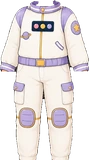
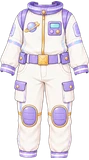
여아 우주복 새 원화로 교체 (#774)
원화의 턱선과 목둘레 안 목 살을 지우고, 목 중심·턱 자리를 여아 아바타에 맞춰 배율 0.70으로 얹었다. imgGirl ?v=2.

Claude-Session: https://claude.ai/code/session_018maNuYqDfFyRSe9uKpZhPR

diff --git a/src/data/avatarEquipment.js b/src/data/avatarEquipment.js
@@ -342,7 +342,10 @@ export const AVATAR_CATALOG = [
      비치룩·보드룩과 같은 방식: 원화 목 중심(x227.43)을 x516 에, 턱선 y14 를 y399 에 고정하고 어깨·속옷이 다 가려지는
      가장 작은 배율 0.71. 턱은 지우고, 목 살(크림 깃과 R−B 로 구분)만 페이드로 베이스 목과 섞었다. 탑재 상자 (355,391)-(671,782). */
   { id: "top_acorn",      slot: "top",   label: "도토리 탐험복", emoji: "🌰", price:DECOR_PRICE.rare, rarity: "rare", theme: "adventure", forGender: "boy", coversBottom: true, img: "assets/avatar/top/acorn-outfit-boy.webp?v=4", thumb: "assets/avatar/thumb/top_acorn.webp?v=4" },
-  { id: "top_space",      slot: "top",   label: "우주복",       emoji: "🚀", price:DECOR_PRICE.epic, rarity: "epic", theme: "space",  coversBottom: true, img: "assets/avatar/top/space-suit-boy.webp?v=3", imgGirl: "assets/avatar/top/space-suit-girl.webp", thumb: "assets/avatar/thumb/top_space.webp?v=3", thumbGirl: "assets/avatar/thumb/top_space-girl.webp" },
+  /* [2026-10-02] 여아 우주복 새 원화로 교체 — 흰 우주복(보라 목둘레·어깨·무릎 패드, 금 버클), 발목까지 오는 한 벌(사용자 원화).
+     원화 맨 위의 턱선과 목둘레 안쪽 목 살을 지워 베이스 목이 그대로 보이게 하고, 목둘레 안 목 중심(x214)을 여아 목 중심 x512.5 에,
+     원화 턱 자리 y2 를 여아 턱선 y361 에 맞췄다. 배율 0.70 — 흰 수영복·다리가 다 가려지고 발목·손목에서 끝난다. imgGirl ?v=2. */
+  { id: "top_space",      slot: "top",   label: "우주복",       emoji: "🚀", price:DECOR_PRICE.epic, rarity: "epic", theme: "space",  coversBottom: true, img: "assets/avatar/top/space-suit-boy.webp?v=3", imgGirl: "assets/avatar/top/space-suit-girl.webp?v=2", thumb: "assets/avatar/thumb/top_space.webp?v=3", thumbGirl: "assets/avatar/thumb/top_space-girl.webp?v=2" },
 
   /* ── 우주 세트 (남아) — 사용자 원화 2026-09-29 ────────────────────────────
      우주복(top_space)과 같은 원화 세트에서 나온 가방·신발. 둘 다 남아 전용 첫

diff --git a/art-src/README.md b/art-src/README.md
@@ -372,7 +372,7 @@ getBoundingClientRect로 재서 정한다. 2026-08-05 점검에서 이 기준을
 | (돌고래·돛단배 되돌림 2026-09-27) | 바로 위 8종 작업에서 **두 곳을 잘못 지웠다.** ① 돌고래 — '몸과 물 사이'를 지우면서 **눈 아래 흰 턱(300px, (119,130)-(174,142))까지 같이 날렸다.** 상자를 물결선 아래(y≥146)로만 좁혀 다시 지우니 물결선 띠(1029px)와 꼬리쪽 물방울 옆(227px)만 사라지고 턱은 남는다. ② 돛단배 — '돛대와 천 사이'라고 본 흰색은 **배경이 아니라 앞돛(jib)** 이었다. 아이 뒤에 흰 앞돛이 통째로 그려져 있고 큰 돛도 돛대에 바로 붙어 있어 **둘 사이에 지울 배경 자체가 없다.** (225,14) 기준으로 지운 6덩어리가 전부 돛 안쪽을 파먹어, 남녀 두 장 다 손대기 전으로 되돌렸다. **교훈: 흰 물건 옆의 '틈'은 지우기 전에 5배로 확대해 배경인지 물건인지 눈으로 확인할 것** — 마젠타 위에서도 흰 물건과 흰 배경은 똑같이 보인다 | assets/expedition/ride/dolphin{,-girl}.webp · sailboat{,-girl}.webp |
 | growth-characters-760/adventure/{boy,girl}/stage-1~5.webp | **탐험 성장 캐릭터 5단계 남·여 (사용자 원화 2026-09-26 — 전면 교체)** — 받은 그림 10장이 전부 배경이 지워진 상태였고 **알파 1~19 짜리 헤일로**가 있었다(남아2 11,051px · 여아1 11,953px). **안 누르면 알파 상자가 그쪽까지 늘어나 캐릭터가 작게 들어간다** — 남아2 는 상자가 684 → 1042 로 벌어졌다. 눌러서 다시 잰 뒤 아바타 장비와 같은 규칙(연결 조각 60px 미만 제거 + 250px 이하 안쪽 구멍 메움)을 돌렸다. 겨드랑이·다리 사이처럼 **큰 빈 곳은 진짜 여백이라 그대로 둔다** — 옷과 달리 캐릭터는 구멍이 있는 게 정상이다. 보관 760 높이 · 배포 500 높이(알파 상자에 맞춰 자르고 세로만 맞춘다, 가로는 비율). **진화할수록 물건이 하나씩 는다** — 1 기본(사파리 헬멧·노란 조끼·초록 반바지·부츠) → 2 +고글 → 3 +허리 파우치 → 4 +빨간 스카프 → 5 +별 뱃지. 포즈도 단계마다 다르다(차렷 → 경례 → 가리키기 → 허리에 손 → 주먹). 예전 판(지도·돋보기·망토·지팡이가 늘어나던 세트)은 규칙 6 에 따라 같은 파일명으로 덮어썼다. CHAR_IMG 의 `?v=` 를 5 → 6 으로 올렸다 | assets/growth-characters/adventure/{boy,girl}/stage-1~5.webp |
 | (여아 전수 점검 2026-09-25) | 사용자 요청으로 **여아가 볼 수 있는 옷·모자 10종을 전부** 훑었다(입은 모습 + 상점 카드 + 자홍 배경 + 수치). 눈에 띄는 흠은 없었지만 수치로 **부스러기와 1픽셀급 구멍**이 남아 있어, 아바타 장비 전 파일에 같은 규칙을 한 번에 돌렸다 — **연결 조각 60px 미만 제거 + 테두리에 안 닿는 250px 이하 구멍을 이웃 색으로 메움**. 17개 파일이 손질됐다(해적 모자 부스러기 40·구멍 191 / 해적 옷 여아 구멍 73 / 별빛 마법사 부스러기 41 / 사파리 여아 부스러기 5·구멍 48 / 딸기 소풍 부스러기 7·구멍 22 …). 가장자리가 반투명이라 첫 판에 안 채워진 3개는 이웃 기준을 알파 60 으로 낮춰 마무리했다. **결과: 상점에 있는 17개 파일 전부 조각 1개·부스러기 0·구멍 0.** 손질로 그림이 바뀐 8종은 썸네일을 다시 뽑고 `?v=` 를 올렸다. 은퇴 파일(비행모·꽃헬멧·탐험헬멧·크림부츠·탐험끈·데님/카키 반바지) 8개도 같은 규칙에 함께 손질됐다 — 상점엔 없지만 배포본에는 들어가므로 그대로 뒀다 | (전 파일) |
-| space-girl-src.webp | **[2026-09-25 탑재본 청소]** 색으로 옷을 떼어낸 흔적(손·목·발 살 조각, 깃 안쪽 목)이 층에 남아 있었다. 입은 모습에선 베이스의 같은 자리와 겹쳐 안 보였지만 **상점 카드에선 옷에 손이 매달린 것처럼 보였다.** 소매부리 y583 아래 바깥 덩어리·바지밑단 y868 아래·깃 안쪽 y346~374 의 살과 머리카락을 지우고(3,812px + 부스러기 9조각 22px) 썸네일을 다시 뽑았다. 남아 것도 깃 안쪽 목(y400~428, 1,608px)을 같은 이유로 지웠다. 깃 안은 베이스의 제 목이 채우므로 구멍이 생기지 않는다(실측 확인). **우주복 원화 여아 (사용자 원화 2026-08-19)** — 베이스 v7 여아가 **입고 있는 전신 그림**(897×1753, 배경 검정). 크림색 우주복 + 연보라 어깨·벨트·무릎보호대 + 금색 지퍼·별 패치. 팔다리까지 덮는 한 벌 | avatar/top/space-suit-girl.webp |
+| space-girl-src.webp | **우주복 원화 여아 — 새 판 (사용자 원화 2026-10-02, 이전 판 교체)**. 424×750 투명 배경, 흰 우주복(보라 목둘레·어깨·소매·무릎 패드, 금 지퍼·버클) 발목까지 한 벌. 맨 위에 베이스 턱선, 목둘레 안에 목 살이 그려져 있다 → 원화 y0~5 의 보라가 아닌 픽셀과 목둘레 안쪽(y0~17, x175~257)의 보라가 아닌 픽셀을 모두 지워 베이스 목이 비치게 했다. 목둘레 안 목 중심 x214 를 여아 목 중심 x512.5 에, 원화 턱 자리 y2 를 여아 턱선 y361 에 맞추고 배율 0.70 — 흰 수영복 0·종아리까지 다 가려지고 바지 끝이 발목, 소매 끝이 손목. 조각 1개. 탑재 상자 (363,360,660,885) · imgGirl ?v=2 | avatar/top/space-suit-girl.webp · thumb/top_space-girl.webp |
 | picnic-girl-src.webp | **딸기 소풍 옷 원화 여아 (사용자 원화 2026-08-19)** — 베이스 v7 여아가 **입고 있는 전신 그림**(859×1832, 배경 검정). 분홍 깅엄 카디건 + 크림 블라우스 + 딸기 자수 산호색 반바지 | avatar/top/picnic-outfit-girl.webp |
 | magic-girl-src.webp | **별빛 마법사 옷 원화 여아 — 새 판 (사용자 원화 2026-10-02, 이전 판 교체)**. 512×553 투명 배경, 보라 후드 망토(금 테두리·별 브로치) + 연보라 원피스·초승달 허리띠·별 무늬 보라 치마, 소매 끝에 치마를 잡은 손까지 그려져 있다. 맨 위(원화 y0~16)에 베이스 턱 아래 곡선이 함께 그려져 있어 보라·금색이 아닌 픽셀을 지웠다. 후드 사이 목 중심 x255.5 를 여아 목 중심 x512.5 에, 원화 턱선 y14 를 여아 턱선 y361 에 맞추고 배율 0.62 — 원화 손이 아바타 손 자리(x357~417·y560~658)를 덮고 그 아래는 치마가 가려 손이 두 쌍으로 안 보인다(손을 지우면 손목이 잘려 보여 살렸다). 목 살은 턱선 아래 20px 동안 0→1 페이드. 흰 수영복 비침 0, 조각 1개. 탑재 상자 (354,353,671,695) · ?v=4 **[2026-10-02 보정]** 사용자 요청으로 옷에 그려진 손만 보이게 — 이 옷을 입으면 손을 뺀 몸 base/body-girl-nohands.webp 를 쓴다(카탈로그 bodyImgGirl). body-girl ?v=13 에서 소매가 팔을 다 덮는 줄(왼 y486·오른 y480)부터 아래의 양팔 덩어리와 손가락 조각(왼 x≤414·오른 x≥598)을 지워 만들었다 — **body-girl 을 바꾸면 이 파일도 다시 만들어야 한다** **[2026-10-02 조정]** 사용자 요청으로 위치는 그대로, 배율 0.62 → 0.6577(×1.04×1.02). 탑재 상자 (344,353,681,716) · img ?v=5, 손을 뺀 몸도 다시 만들어 ?v=2(소매가 팔을 덮는 줄 양쪽 y470) **[2026-10-02 재조정]** 배율 0.6577 → 0.698(위치 그대로). 탑재 상자 (334,353,691,737) · img ?v=6, 손을 뺀 몸 ?v=3 | avatar/top/magic-outfit-girl.webp · thumb/top_magic.webp |
 | pirate-girl-outfit-src.webp | **해적 옷 원화 여아 — 새 판 (사용자 원화 2026-10-02, 이전 판 교체)**. 416×485 투명 배경, 크림 퍼프 블라우스(둥근 깃·주황 리본·금단추) + 주황 허리띠를 맨 남색 반바지 한 벌. 위쪽에 목(턱 없음)이 함께 그려져 있다. 원화 목 외곽선 x177.5~240.5(폭 63, 중심 209)를 여아 목 중심 x512.5 에, 곧은 목선이 끝나는 원화 y15 를 여아 y372 에 맞추고 배율 0.70(목 폭이 같아지는 값 · 흰 수영복도 이 값부터 0). 목 살(r−b>70)과 목 옆선은 원화 y4→20 동안 0→1 페이드. 조각 1개. 탑재 상자 (366,362,657,702) · imgGirl ?v=4 **[2026-10-02 수정판]** 같은 크기의 사용자 수정판으로 덮어씀 — 반바지 밑단 아래(원화 y320~470)가 조금 늘었다. 같은 탑재값, 탑재 상자 (366,362,657,702) · imgGirl ?v=5 | avatar/top/pirate-outfit-girl.webp · thumb/top_pirate-girl.webp |
